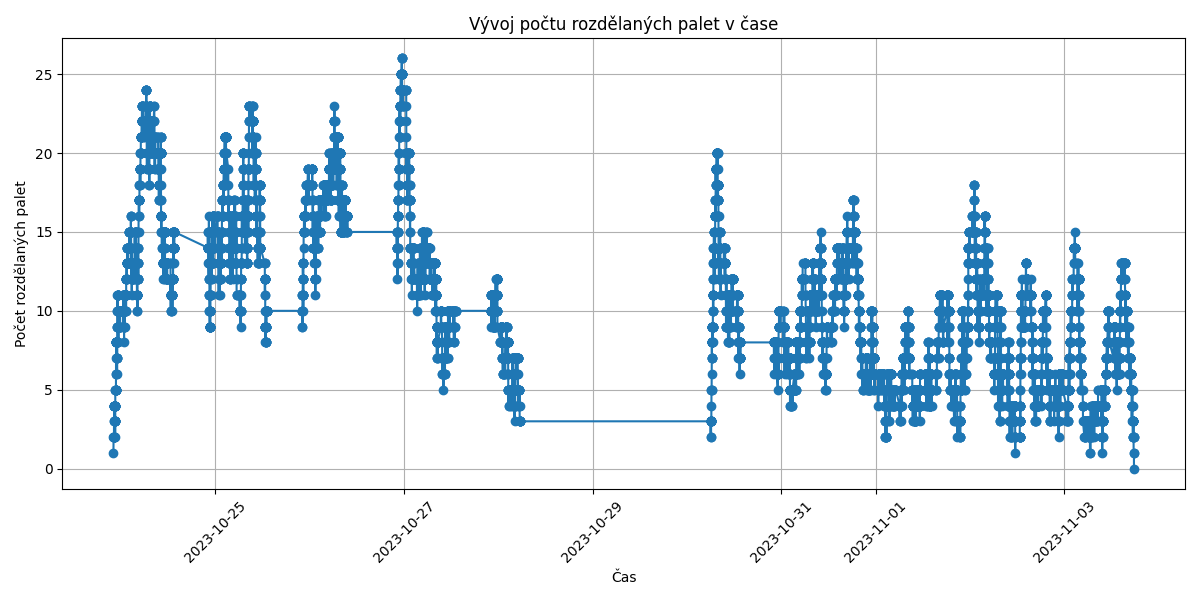
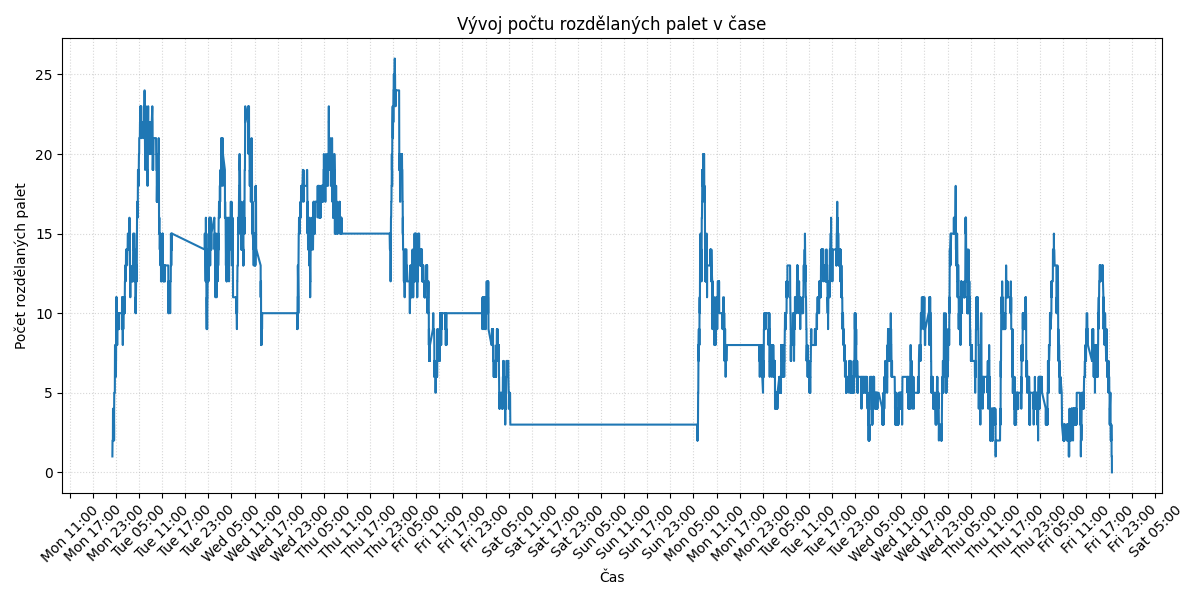
send

diff --git a/Main.py b/Main.py
@@ -2,6 +2,7 @@ import pandas as pd
 import matplotlib.pyplot as plt
 import os
 from datetime import datetime
+import matplotlib.dates as mdates
 
 class WO:
     def __init__(self, id, palletization, total_pieces):
@@ -113,13 +114,21 @@ completed_pallets_df.to_csv(output_filepath, index=False, date_format='%Y-%m-%d 
 print(f"Výsledky byly uloženy do souboru {output_filepath}")
 
 plt.figure(figsize=(12, 6))
-plt.plot(in_progress_df['Time'], in_progress_df['InProgressPallets'], marker='o')
+plt.plot(in_progress_df['Time'], in_progress_df['InProgressPallets'])
 plt.title('Vývoj počtu rozdělaných palet v čase')
 plt.xlabel('Čas')
 plt.ylabel('Počet rozdělaných palet')
-plt.grid(True)
-plt.xticks(rotation=45)
-plt.tight_layout()
 
-# Save the plot as a PNG file
+# Nastaví mřížku
+plt.grid(True, linestyle='dotted', alpha=0.5)
+
+# Nastaví formát časové osy X
+plt.gca().xaxis.set_major_locator(mdates.HourLocator(interval=6))  # Interval=6 hodin
+plt.gca().xaxis.set_major_formatter(mdates.DateFormatter('%a %H:%M'))  # Formát den v týdnu Hodina:Minu
+
+# Otáčí popisky osy X
+plt.xticks(rotation=45)
+
+plt.tight_layout()
 plt.savefig('in_progress_pallets_plot.png')
+plt.show()
